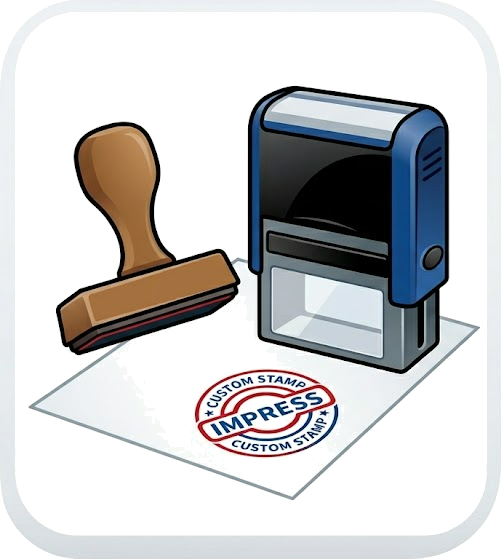
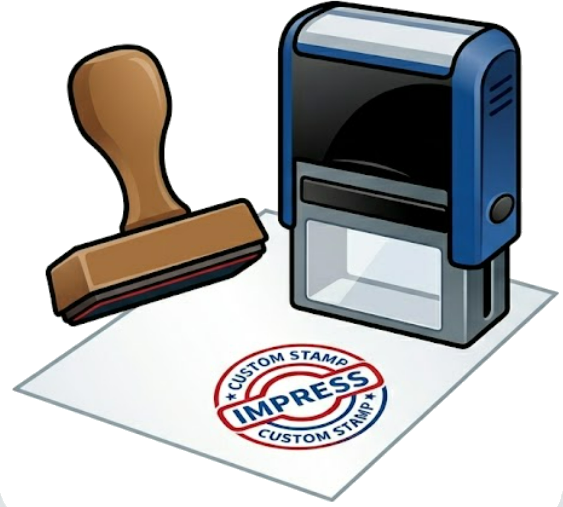
updated images

diff --git a/style.css b/style.css
@@ -338,41 +338,137 @@ img {
     cursor: pointer;
 }
 
-/* --- Announcements Banner --- */
+/* --- Announcements Banner (Top) --- */
 .announcements {
     margin-top: var(--nav-height);
-    background: linear-gradient(135deg, var(--teal), var(--gold));
-    padding: 20px 0;
-    color: var(--white);
-    border-bottom: 2px solid var(--cream2);
+    background: var(--cream); /* Soft off-white cream background */
+    padding: 16px 0;
+    border-bottom: 1.5px solid rgba(12, 28, 46, 0.08); /* Soft divider border */
+    position: relative;
+    z-index: 999;
 }
 
-.announcement-card {
+.announcement-card-v2 {
     display: flex;
     align-items: center;
+    justify-content: space-between;
     gap: 20px;
-    background: rgba(255, 255, 255, 0.1);
+    background: var(--white); /* Premium clean white card */
+    border: 1px solid rgba(12, 28, 46, 0.08);
     border-radius: var(--radius);
-    padding: 20px;
-    backdrop-filter: blur(5px);
-    border: 1px solid rgba(255, 255, 255, 0.15);
+    padding: 12px 24px;
+    backdrop-filter: blur(10px);
+    -webkit-backdrop-filter: blur(10px);
 }
 
-.announcement-icon i {
-    font-size: 2.5rem;
-    color: var(--cream);
-}
-
-.announcement-content h3 {
-    color: var(--white);
-    font-size: 1.25rem;
-    margin-bottom: 4px;
-}
-
-.announcement-content p {
-    font-size: 0.95rem;
-    opacity: 0.95;
+.announcement-badge-v2 {
+    background: linear-gradient(135deg, var(--gold), var(--gold2)); /* Gold gradient badge */
+    padding: 4px 10px;
+    border-radius: 4px;
     font-family: var(--font-body);
+    font-size: 9px;
+    font-weight: 700;
+    letter-spacing: 1px;
+    color: var(--navy); /* Dark navy text */
+    text-transform: uppercase;
+    flex-shrink: 0;
+    animation: badgeBlink 1.8s infinite ease-in-out;
+}
+
+.announcement-main-v2 {
+    display: flex;
+    align-items: center;
+    gap: 16px;
+    flex-grow: 1;
+}
+
+.announcement-icon-v2 {
+    display: flex;
+    align-items: center;
+    justify-content: center;
+    width: 40px;
+    height: 40px;
+    background: rgba(201, 168, 76, 0.15); /* Light gold background tint */
+    border-radius: 50%;
+    color: var(--gold); /* Gold icon color */
+    flex-shrink: 0;
+}
+
+.announcement-icon-v2 i {
+    font-size: 1.3rem;
+}
+
+/* Pulsing icon animation */
+.pulse-icon {
+    animation: broadcastPulse 2s infinite;
+}
+
+@keyframes broadcastPulse {
+    0% { transform: scale(1); opacity: 1; }
+    50% { transform: scale(1.15); opacity: 0.8; }
+    100% { transform: scale(1); opacity: 1; }
+}
+
+@keyframes badgeBlink {
+    0%, 100% { opacity: 1; }
+    50% { opacity: 0.2; }
+}
+
+.announcement-slides-window {
+    overflow: hidden;
+    flex-grow: 1;
+    width: 100%;
+}
+
+.announcement-slides-container {
+    display: flex;
+    transition: transform 0.8s var(--ease);
+    width: 100%;
+}
+
+.announcement-slide {
+    width: 100%;
+    flex-shrink: 0;
+    text-align: center;
+}
+
+.announcement-slide h3 {
+    color: var(--navy); /* Deep navy text for legibility */
+    font-size: 1.05rem;
+    font-weight: 600;
+    margin-bottom: 8px; /* Increased spacing between lines */
+}
+
+.announcement-slide p {
+    color: var(--navy); /* Deep navy text for legibility */
+    font-size: 0.85rem;
+    opacity: 0.85;
+    line-height: 1.4;
+    font-family: var(--font-body);
+}
+
+/* CTA button styling removed */
+
+/* Responsive banner layout for mobile */
+@media (max-width: 992px) {
+    .announcement-card-v2 {
+        flex-direction: column;
+        align-items: center; /* Center-align badge and text content */
+        gap: 14px;
+        padding: 16px;
+    }
+    
+    .announcement-main-v2 {
+        align-items: center;
+        gap: 12px;
+        width: 100%;
+    }
+    
+    .announcement-icon-v2 {
+        display: none; /* Hide icon on mobile/movie view */
+    }
+    
+    /* Mobile CTA overrides removed */
 }
 
 /* --- Hero Section --- */

diff --git a/index.html b/index.html
@@ -62,23 +62,34 @@
             </div>
         </div>
     </nav>
-
     <!-- Announcements Banner -->
     <section id="announcements" class="announcements reveal">
         <div class="container">
-            <div class="announcement-card">
-                <div class="announcement-icon">
-                    <i class='bx bx-broadcast'></i>
+            <div class="announcement-card-v2">
+                <div class="announcement-badge-v2">
+                    <span data-i18n="announcement_eyebrow">LATEST UPDATES</span>
                 </div>
-                <div class="announcement-content">
-                    <h3 data-i18n="announcement_title">📢 Now Assisting with Senior Citizen Card Applications!</h3>
-                    <p data-i18n="announcement_desc">Visit our small shop in Polo Bazar to get seamless help with the registration, processing, and printing of your official Senior Citizen Card.</p>
+                <div class="announcement-main-v2">
+                    <div class="announcement-icon-v2">
+                        <i class='bx bx-broadcast pulse-icon'></i>
+                    </div>
+                    <div class="announcement-slides-window">
+                        <div class="announcement-slides-container">
+                            <div class="announcement-slide">
+                                <h3 data-i18n="announcement_title_1">📢 Now Assisting with <strong>SENIOR CITIZEN CARD</strong> Applications!</h3>
+                                <p data-i18n="announcement_desc_1">Visit our small shop in Polo Bazar to get seamless help with the registration, processing, and printing of your official <strong>SENIOR CITIZEN CARD</strong>.</p>
+                            </div>
+                            <div class="announcement-slide">
+                                <h3 data-i18n="announcement_title_2">📈 Connect with SEBI Registered <strong>MUTUAL FUND</strong> Advisor</h3>
+                                <p data-i18n="announcement_desc_2">We can connect you to a SEBI registered <strong>MUTUAL FUND</strong> Advisor for increasing your wealth through safe and smart investments.</p>
+                            </div>
+                        </div>
+                    </div>
                 </div>
+
             </div>
         </div>
-    </section>
-
-    <!-- Hero Section -->
+    </section>    <!-- Hero Section -->
     <header id="home" class="hero">
         <div class="hero-overlay"></div>
         <div class="container hero-content reveal">

diff --git a/translations.js b/translations.js
@@ -9,8 +9,11 @@ const translations = {
         nav_find_us: "Find Us",
         nav_cta: "<i class='bx bxl-whatsapp'></i> Send Document / Order",
         
-        announcement_title: "📢 Now Assisting with Senior Citizen Card Applications!",
-        announcement_desc: "Visit our small shop in Polo Bazar to get seamless help with the registration, processing, and printing of your official Senior Citizen Card.",
+        announcement_eyebrow: "LATEST UPDATES",
+        announcement_title_1: "📢 Now Assisting with <strong>SENIOR CITIZEN CARD</strong> Applications!",
+        announcement_desc_1: "Visit our small shop in Polo Bazar to get seamless help with the registration, processing, and printing of your official <strong>SENIOR CITIZEN CARD</strong>.",
+        announcement_title_2: "📈 Connect with SEBI Registered <strong>MUTUAL FUND</strong> Advisor",
+        announcement_desc_2: "We can connect you to a SEBI registered <strong>MUTUAL FUND</strong> Advisor for increasing your wealth through safe and smart investments.",
         
         hero_title: "A Small Shop with <span class='highlight'>Big Solutions</span>",
         hero_subtitle: "Custom Stamps, Printing, Puja Samagri, and Daily Essentials in Shillong.",
@@ -81,8 +84,11 @@ const translations = {
         nav_find_us: "हमें खोजें",
         nav_cta: "<i class='bx bxl-whatsapp'></i> दस्तावेज़ भेजें / ऑर्डर करें",
         
-        announcement_title: "📢 अब वरिष्ठ नागरिक कार्ड आवेदनों में सहायता उपलब्ध है!",
-        announcement_desc: "अपने आधिकारिक वरिष्ठ नागरिक कार्ड के पंजीकरण, प्रसंस्करण और प्रिंटिंग में आसान मदद पाने के लिए पोलो बाजार में हमारी छोटी दुकान पर आएं।",
+        announcement_eyebrow: "नवीनतम अपडेट",
+        announcement_title_1: "📢 अब <strong>वरिष्ठ नागरिक कार्ड (SENIOR CITIZEN CARD)</strong> आवेदनों में सहायता उपलब्ध है!",
+        announcement_desc_1: "अपने आधिकारिक <strong>वरिष्ठ नागरिक कार्ड (SENIOR CITIZEN CARD)</strong> के पंजीकरण, प्रसंस्करण और प्रिंटिंग में आसान मदद पाने के लिए पोलो बाजार में हमारी छोटी दुकान पर आएं।",
+        announcement_title_2: "📈 सेबी (SEBI) पंजीकृत <strong>म्यूचुअल फंड (MUTUAL FUND)</strong> सलाहकार से जुड़ें",
+        announcement_desc_2: "सुरक्षित और स्मार्ट निवेश के माध्यम से अपनी संपत्ति बढ़ाने के लिए हम आपको सेबी पंजीकृत <strong>म्यूचुअल फंड (MUTUAL FUND)</strong> सलाहकार से जोड़ सकते हैं।",
         
         hero_title: "एक छोटी दुकान, <span class='highlight'>बड़े समाधान</span>",
         hero_subtitle: "कस्टम स्टैम्प, प्रिंटिंग, पूजा सामग्री और दैनिक आवश्यकताएं शिलॉन्ग में।",
@@ -153,8 +159,11 @@ const translations = {
         nav_find_us: "ঠিকানা",
         nav_cta: "<i class='bx bxl-whatsapp'></i> ডকুমেন্ট পাঠান / অর্ডার করুন",
         
-        announcement_title: "📢 এখন প্রবীণ नागरिक কার্ড আবেদনের সুবিধা পাওয়া যাচ্ছে!",
-        announcement_desc: "আপনার অফিসিয়াল প্রবীণ নাগরিক কার্ডের রেজিস্ট্রেশন, প্রসেসিং এবং প্রিন্টিং-এর জন্য পোলো বাজারে আমাদের ছোট দোকানে যোগাযোগ করুন।",
+        announcement_eyebrow: "নতুন আপডেট",
+        announcement_title_1: "📢 এখন <strong>প্রবীণ নাগরিক কার্ড (SENIOR CITIZEN CARD)</strong> আবেদনের সুবিধা পাওয়া যাচ্ছে!",
+        announcement_desc_1: "আপনার অফিসিয়াল <strong>প্রবীণ নাগরিক কার্ড (SENIOR CITIZEN CARD)</strong> রেজিস্ট্রেশন, প্রসেসিং এবং প্রিন্টিং-এর জন্য পোলো বাজারে আমাদের ছোট দোকানে যোগাযোগ করুন।",
+        announcement_title_2: "📈 সেবি (SEBI) নিবন্ধিত <strong>মিউচুয়াল ফান্ড (MUTUAL FUND)</strong> উপদেষ্টার সাথে যুক্ত হোন",
+        announcement_desc_2: "নিরাপদ এবং সঠিক উপায়ে আপনার সম্পদ বৃদ্ধির জন্য আমরা আপনাকে একজন সেবি নিবন্ধিত <strong>মিউচুয়াল ফান্ড (MUTUAL FUND)</strong> উপদেষ্টার সাথে যুক্ত করতে পারি।",
         
         hero_title: "একটি ছোট দোকান, <span class='highlight'>বৃহৎ সমাধান</span>",
         hero_subtitle: "কাস্টম স্ট্যাম্প, প্রিন্টিং, পূজা সামগ্রী এবং নিত্যপ্রয়োজনীয় জিনিসপত্র শিলং-এ।",

diff --git a/script.js b/script.js
@@ -176,4 +176,15 @@ document.addEventListener('DOMContentLoaded', () => {
             setLanguage(lang);
         });
     });
+
+    // --- Rolling Announcements Carousel ---
+    const container = document.querySelector('.announcement-slides-container');
+    const slides = document.querySelectorAll('.announcement-slide');
+    if (container && slides.length > 0) {
+        let currentSlide = 0;
+        setInterval(() => {
+            currentSlide = (currentSlide + 1) % slides.length;
+            container.style.transform = `translateX(-${currentSlide * 100}%)`;
+        }, 10000); // Rotate every 10 seconds
+    }
 });